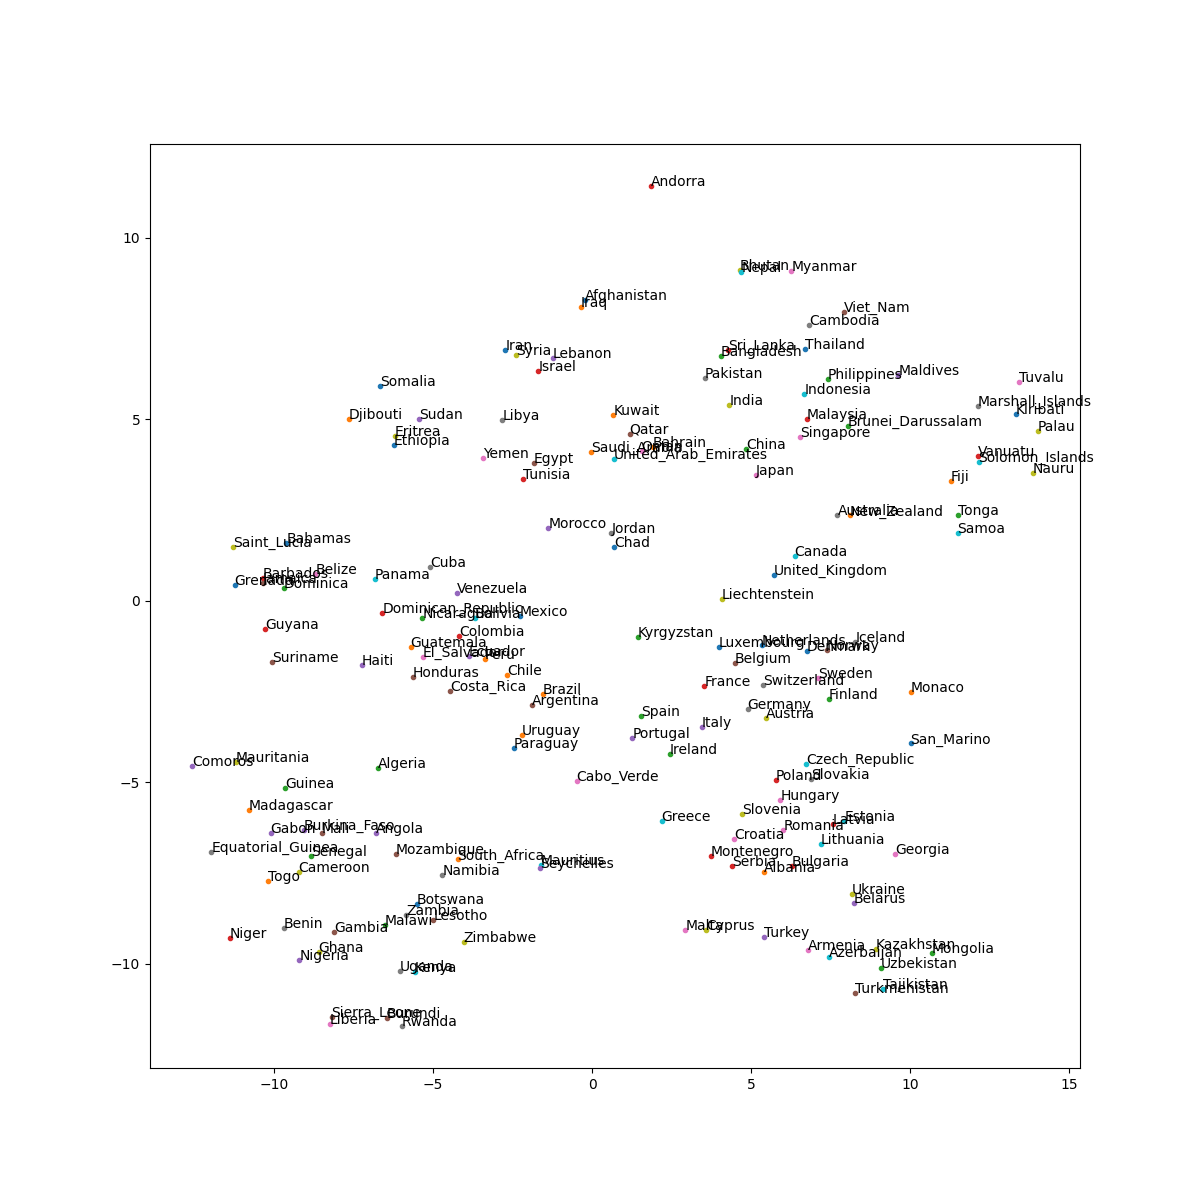
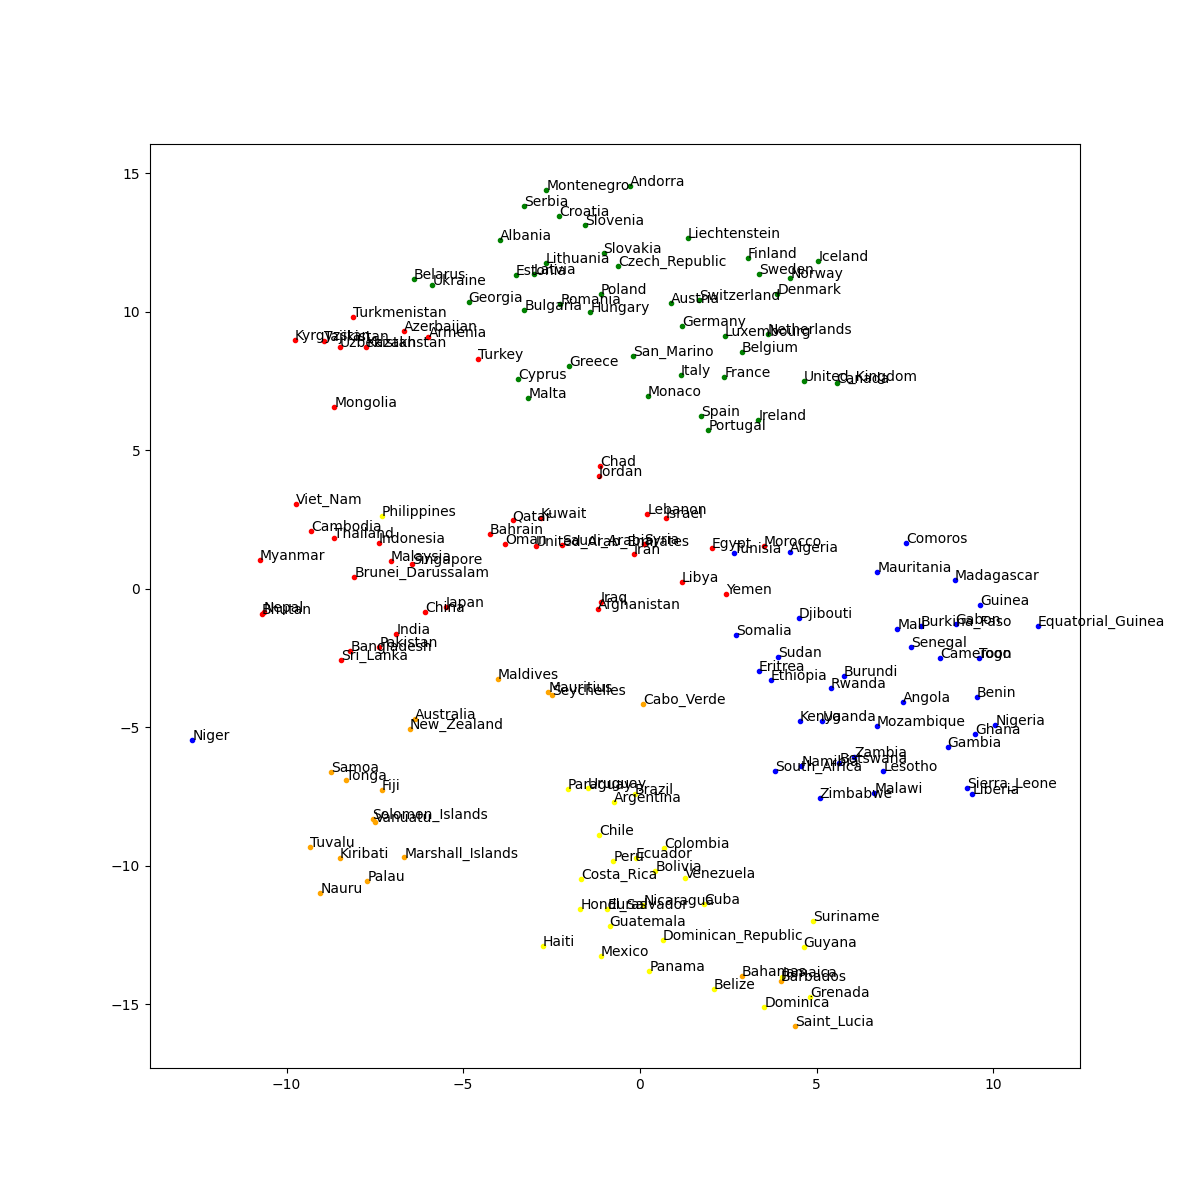
change color

diff --git a/chapter2020_7/nlp69.py b/chapter2020_7/nlp69.py
@@ -2,6 +2,7 @@
 国名に関する単語ベクトルのベクトル空間をt-SNEで可視化せよ．
 '''
 from sklearn.manifold import TSNE
+from sklearn.cluster import KMeans
 import matplotlib.pyplot as plt
 import pandas as pd
 from gensim.models import KeyedVectors
@@ -26,12 +27,19 @@ countries = countries[countries.isin_vocab]
 vec = countries.English.apply(lambda x: googlenews[x]).values
 vec = list(vec)
 
+clusters = KMeans(n_clusters=5).fit_predict(vec)
 vec = TSNE(n_components=2).fit_transform(vec)  # ２次元に圧縮
 x, y = vec.T
 
 plt.figure(figsize=(12, 12))
+cluster2color = {
+    0: 'blue',
+    1: 'green',
+    2: 'red',
+    3: 'orange',
+    4: 'yellow'}
 
-for (xi, yi, label) in zip(x, y, countries['English'].values):
-    plt.plot(xi, yi, '.')
+for (xi, yi, label, cluster) in zip(x, y, countries['English'].values, clusters):
+    plt.plot(xi, yi, '.', color=cluster2color[cluster])
     plt.annotate(label, xy=(xi, yi))
 plt.savefig('../results/nlp2020_69test.png')

diff --git a/chapter2020_7/nlp66.py b/chapter2020_7/nlp66.py
@@ -29,13 +29,19 @@ def spearman(x, y):
 word_sim = pd.read_csv('../data/wordsim353/combined.csv')
 word_sim['Vector'] = word_sim.apply(get_similarity, axis=1)
 
-# TODO リストの0番目にはindex0のランクが来るようにする．
 
 human_rank = word_sim.sort_values('Human (mean)').index
 vector_rank = word_sim.sort_values('Vector').index
-spearman_coefficient = spearman(list(human_rank), list(vector_rank))
+N = len(human_rank)
+human_sim_rank = [0]*N
+vector_sim_rank = [0]*N
 
+for rank, human_index, vector_index in zip(range(N), human_rank, vector_rank):
+    human_sim_rank[human_index] = rank
+    vector_sim_rank[vector_index] = rank
+
+spearman_coefficient = spearman(human_sim_rank, vector_sim_rank)
 print(spearman_coefficient)
 '''
-0.0653429551674618
+0.6997112576768793
 '''
